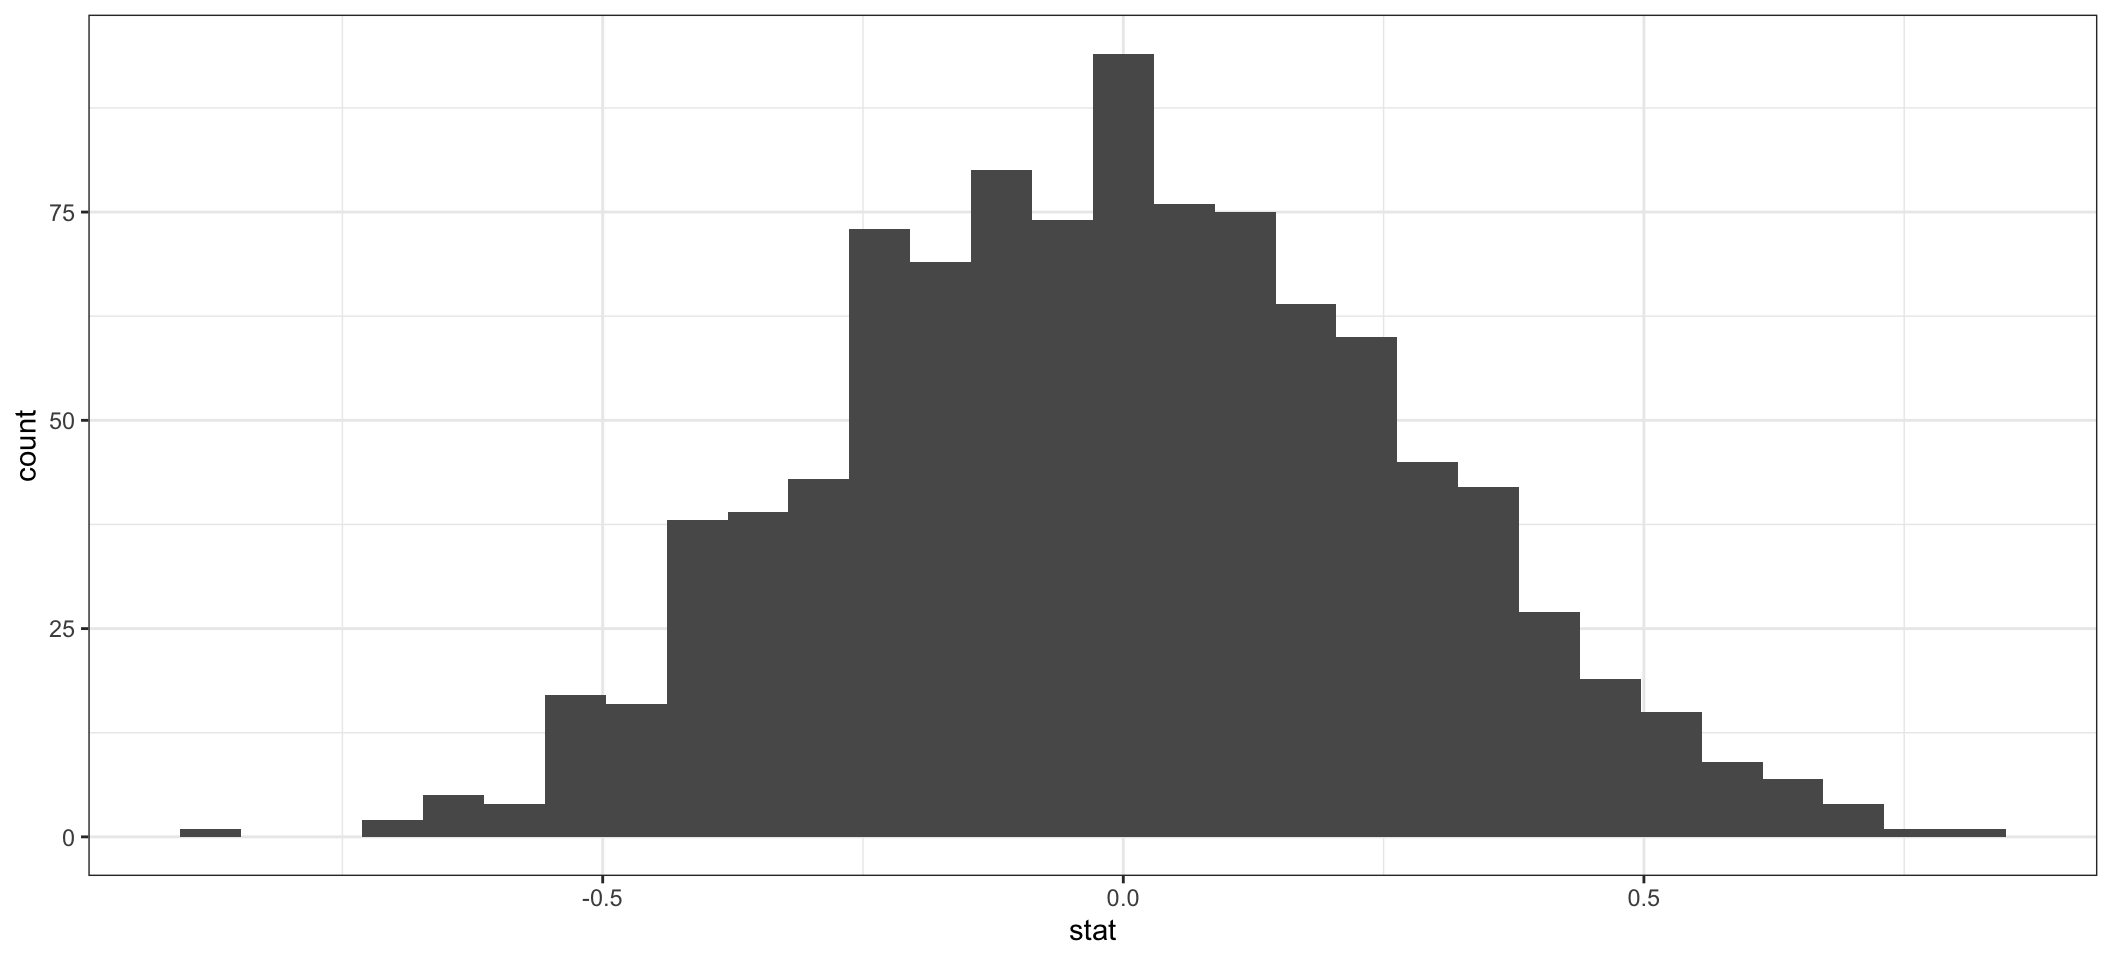
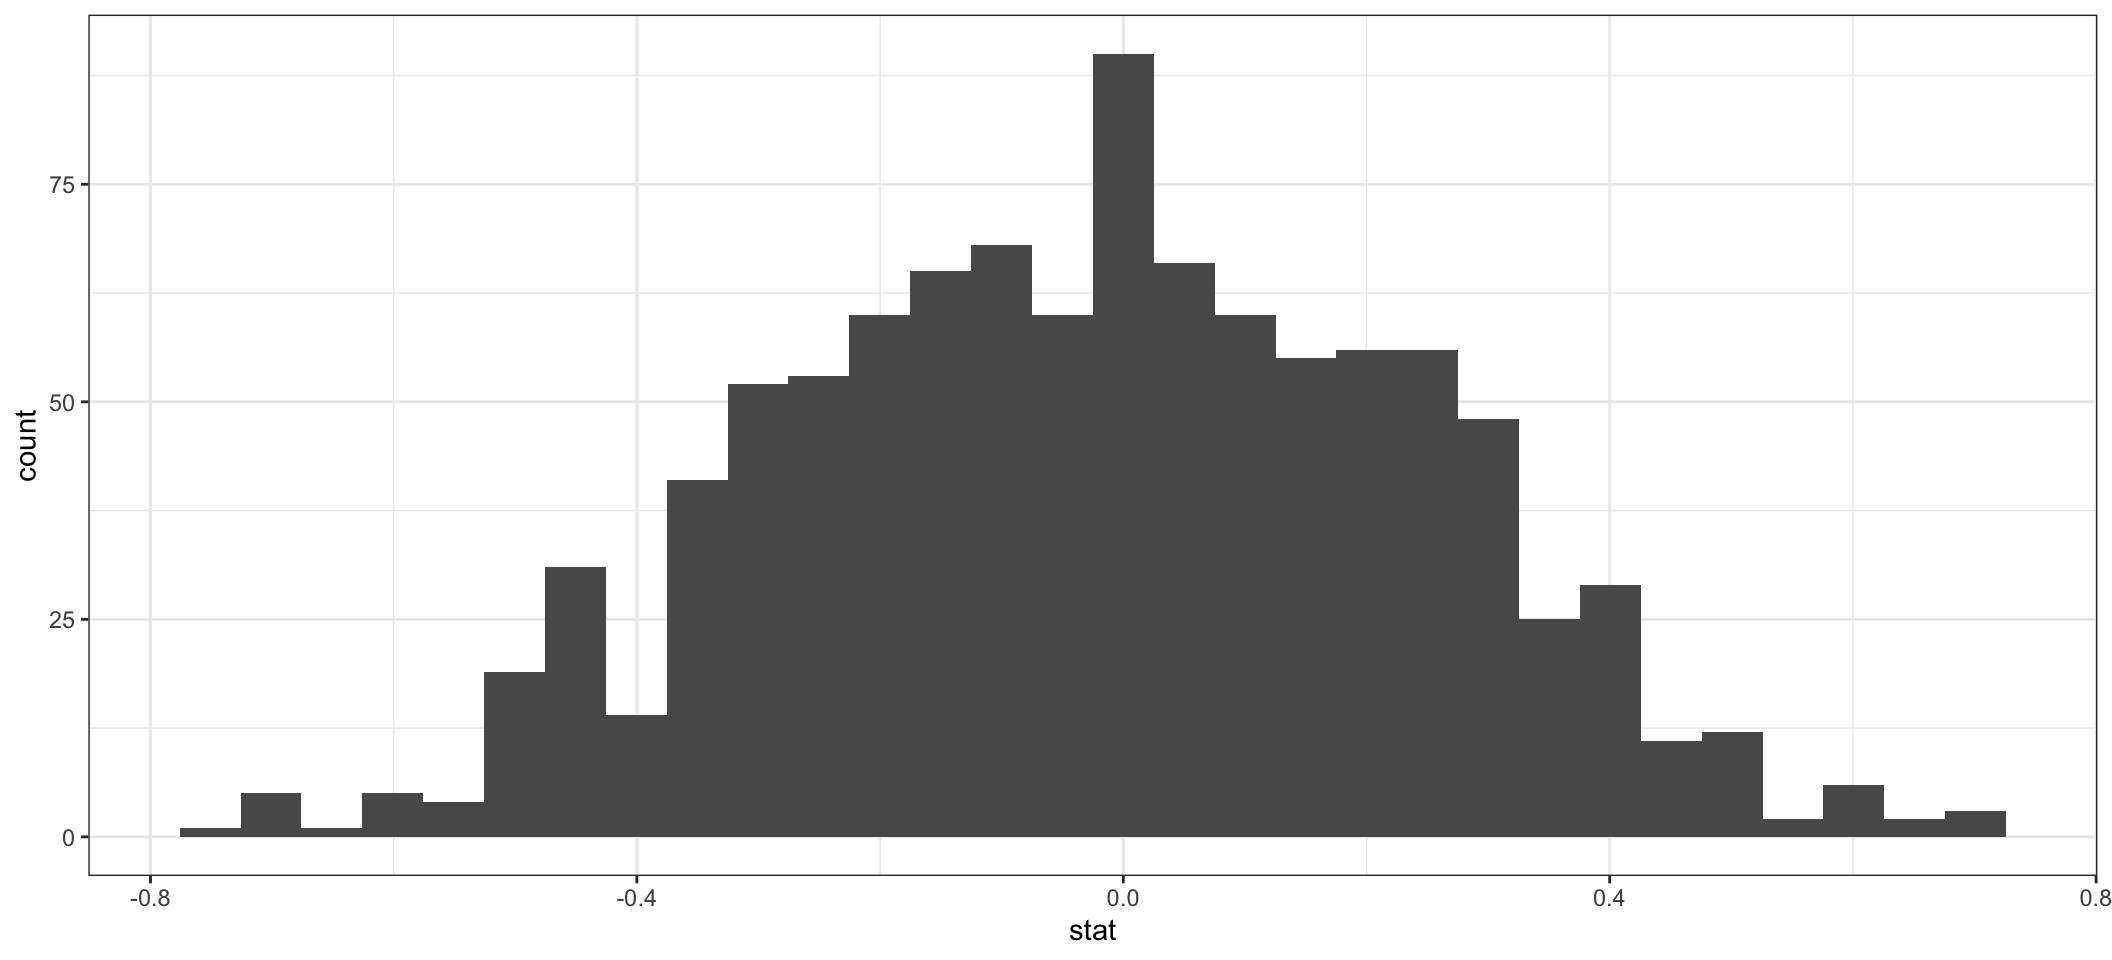
changes 3

diff --git a/content/blogs/blog3.html b/content/blogs/blog3.html
@@ -8,7 +8,7 @@ description: Nullam et orci eu lorem consequat tincidunt vivamus et sagittis mag
   sed magna lacinia magna pellentesque lorem ipsum dolor. Nullam et orci eu lorem
   consequat tincidunt. Vivamus et sagittis tempus.
 draft: false
-image: pic04.jpg
+image: piclbs.jpg
 keywords: ""
 slug: workex
 title: Education and Work Experience
@@ -17,3 +17,21 @@ title: Education and Work Experience
 <script src="/rmarkdown-libs/header-attrs/header-attrs.js"></script>
 
 
+<div id="bachelor-of-arts-economics-and-statistics-at-st.-xaviers-college-mumbai" class="section level2">
+<h2>Bachelor of Arts (Economics and Statistics) at St. Xavier’s College, Mumbai</h2>
+</div>
+<div id="masters-in-analytics-and-management-at-london-business-school" class="section level2">
+<h2>Masters in Analytics and Management at London Business School</h2>
+</div>
+<div id="intern---citibank" class="section level2">
+<h2>Intern - Citibank</h2>
+</div>
+<div id="intern---zilingo" class="section level2">
+<h2>Intern - Zilingo</h2>
+</div>
+<div id="business-analyst---sicon-packs-pvt.-ltd." class="section level2">
+<h2>Business Analyst - Sicon Packs Pvt. Ltd. </h2>
+</div>
+<div id="intern---meet" class="section level2">
+<h2>Intern - Meet</h2>
+</div>

diff --git a/content/blogs/blog1.html b/content/blogs/blog1.html
@@ -131,18 +131,18 @@ null_dist1</code></pre>
 ## Explanatory: director (factor)
 ## Null Hypothesis: independence
 ## # A tibble: 1,000 x 2
-##    replicate     stat
-##        &lt;int&gt;    &lt;dbl&gt;
-##  1         1 -0.184  
-##  2         2 -0.258  
-##  3         3 -0.0992 
-##  4         4 -0.290  
-##  5         5 -0.311  
-##  6         6 -0.364  
-##  7         7  0.282  
-##  8         8  0.219  
-##  9         9 -0.00380
-## 10        10  0.304  
+##    replicate    stat
+##        &lt;int&gt;   &lt;dbl&gt;
+##  1         1  0.0492
+##  2         2 -0.491 
+##  3         3 -0.110 
+##  4         4 -0.332 
+##  5         5 -0.290 
+##  6         6  0.282 
+##  7         7  0.272 
+##  8         8 -0.290 
+##  9         9 -0.237 
+## 10        10  0.0174
 ## # … with 990 more rows</code></pre>
 <pre class="r"><code>ggplot(data = null_dist1, aes(x = stat)) +
   geom_histogram()+
@@ -161,5 +161,5 @@ obs_stat1</code></pre>
 <pre><code>## # A tibble: 1 x 1
 ##   p_value
 ##     &lt;dbl&gt;
-## 1   0.016</code></pre>
+## 1   0.008</code></pre>
 </div>

diff --git a/content/blogs/blog2.html b/content/blogs/blog2.html
@@ -5,7 +5,7 @@ categories:
 date: "2017-10-31T22:26:09-05:00"
 description: Lorem Etiam Nullam
 draft: false
-image: pic03.jpg
+image: pic12.jpg
 keywords: ""
 slug: hobbies
 title: Hobbies and Interests
@@ -14,4 +14,12 @@ title: Hobbies and Interests
 <script src="/rmarkdown-libs/header-attrs/header-attrs.js"></script>
 
 
-<p>Hobbies and interests</p>
+<div id="freestyle-dancing" class="section level2">
+<h2>Freestyle Dancing</h2>
+<p>I am extremely passionate about freestyle dancing, and believe that I have the ability to learn a dance form very quickly. I try to ensure that I take up atleast one dance workshop every month.</p>
+<p><img src="/img/pic13.JPG" width="100%" /></p>
+<div class="figure">
+<img src="%22/Users/kashishsolanki/Desktop/website/static/img/pic13.JPG%22" alt="" />
+<p class="caption">KYS</p>
+</div>
+</div>
